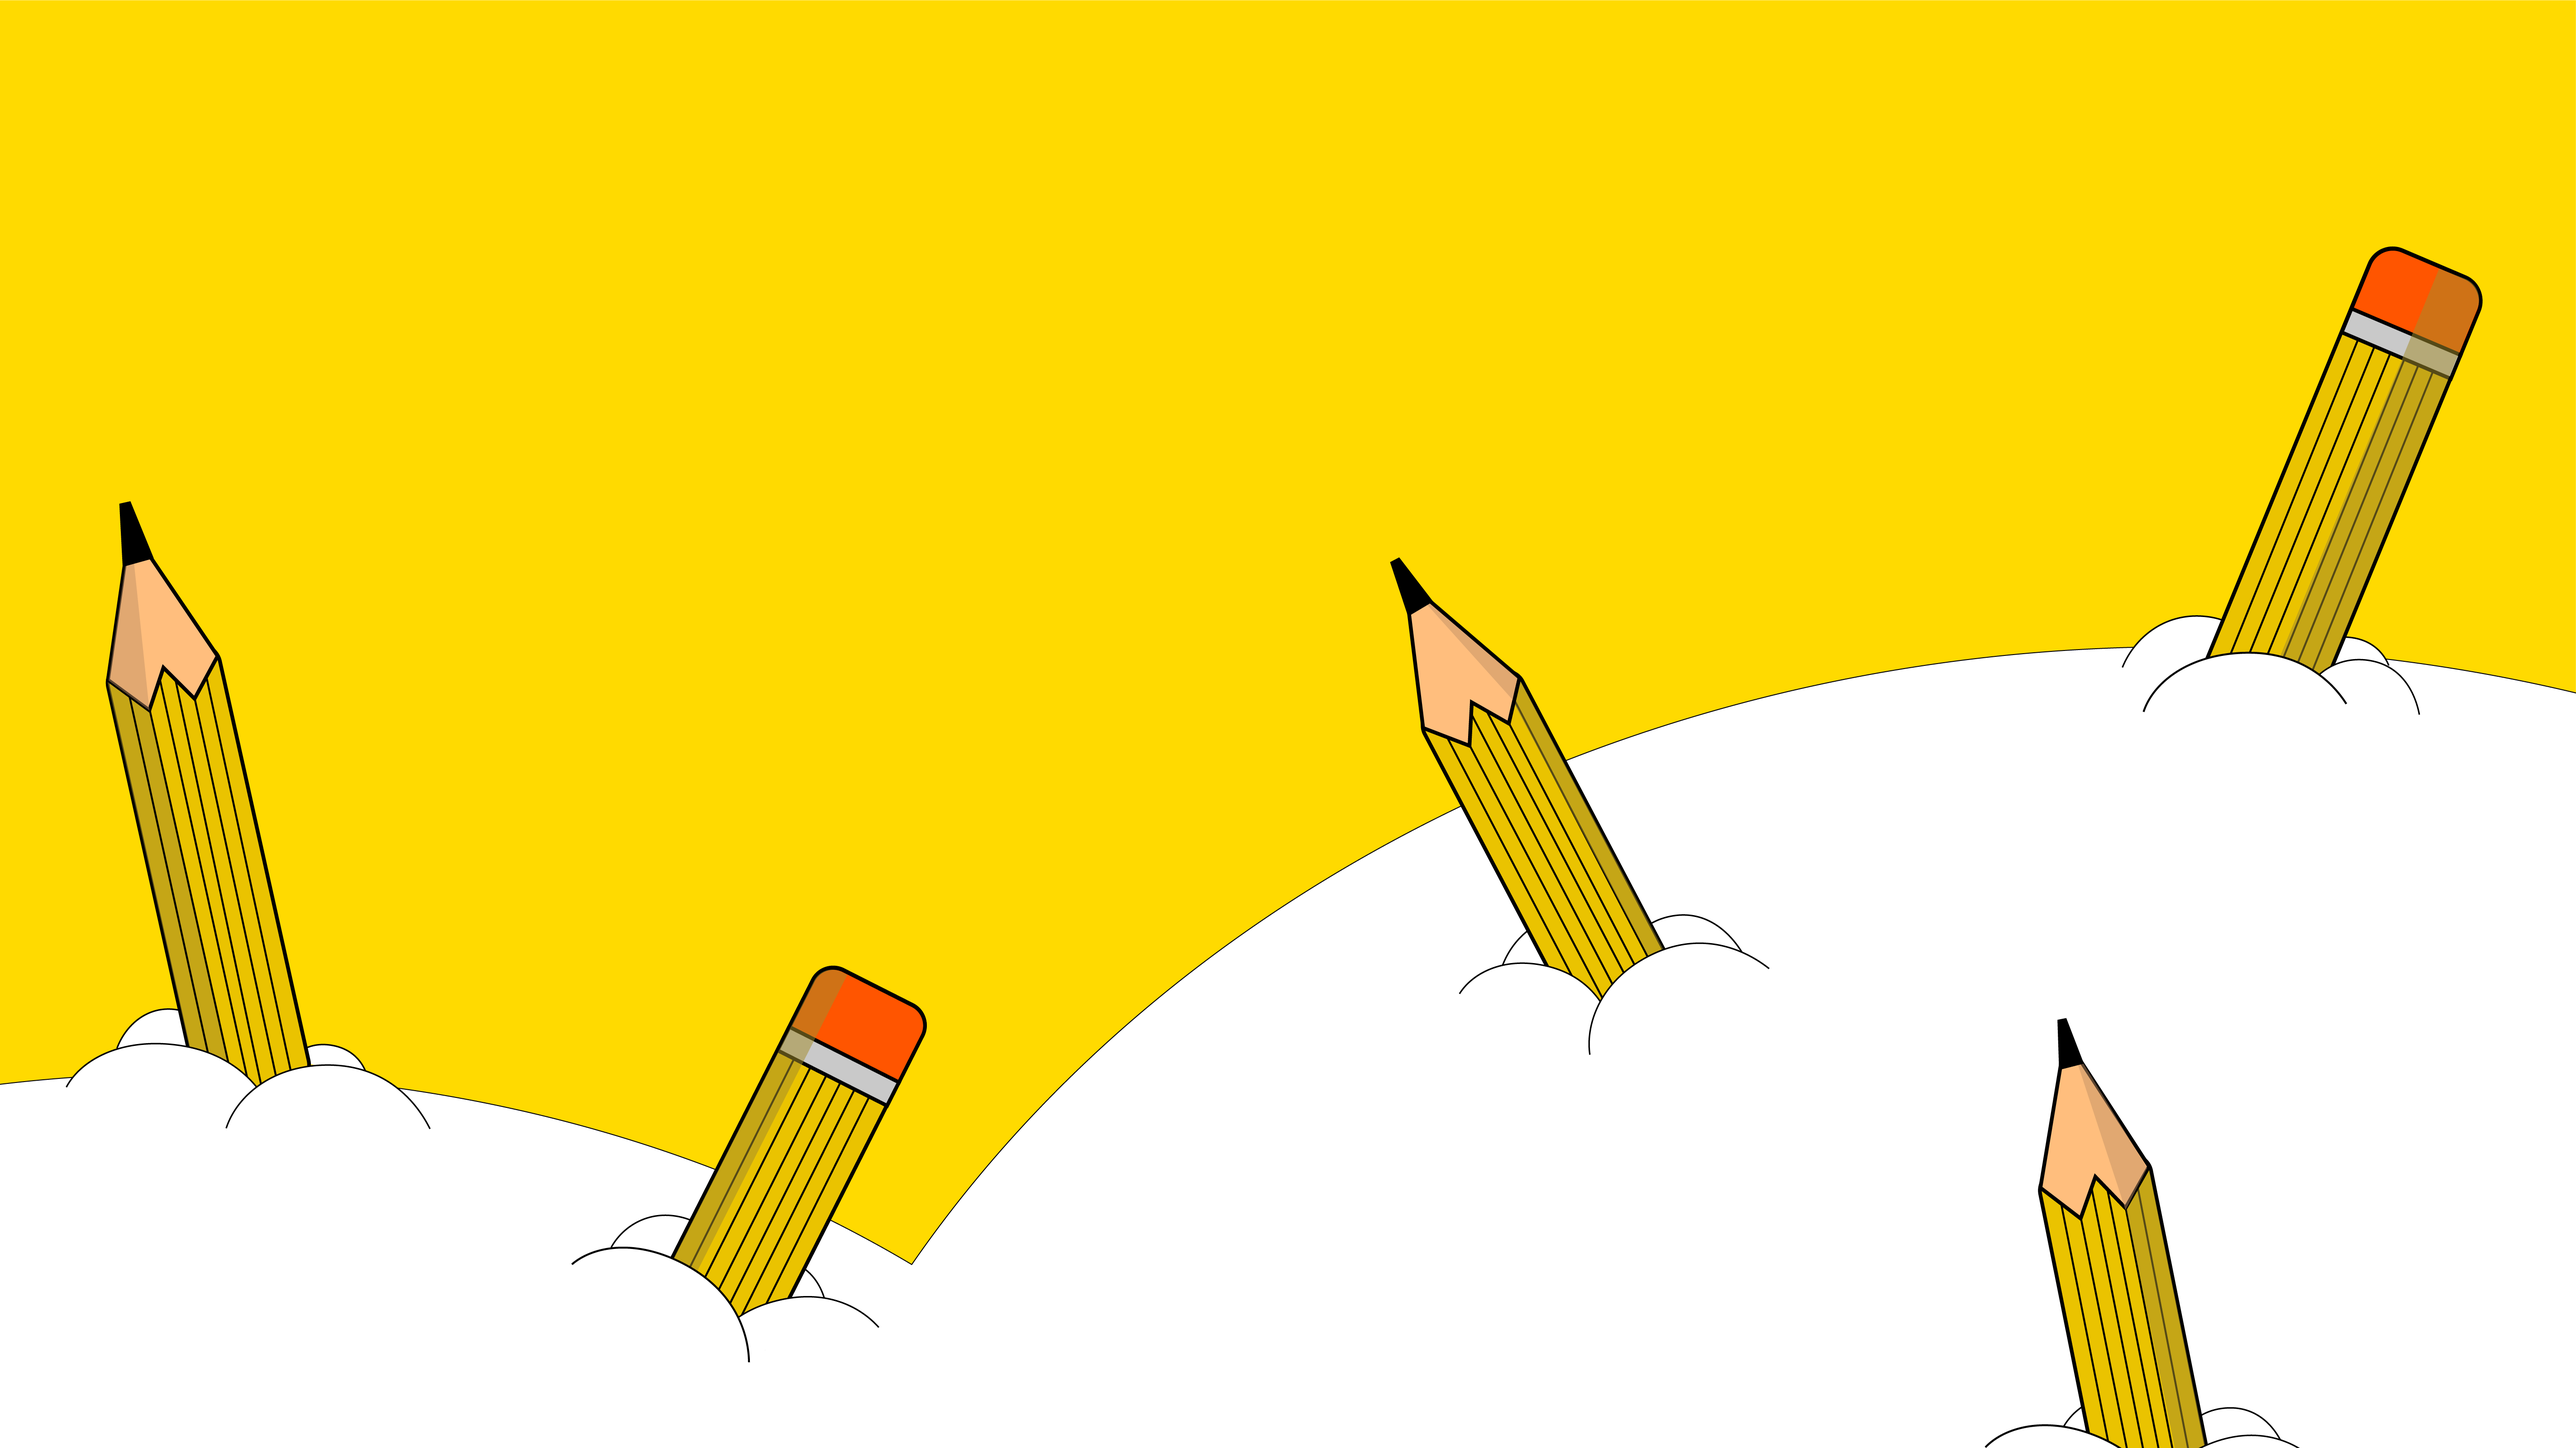
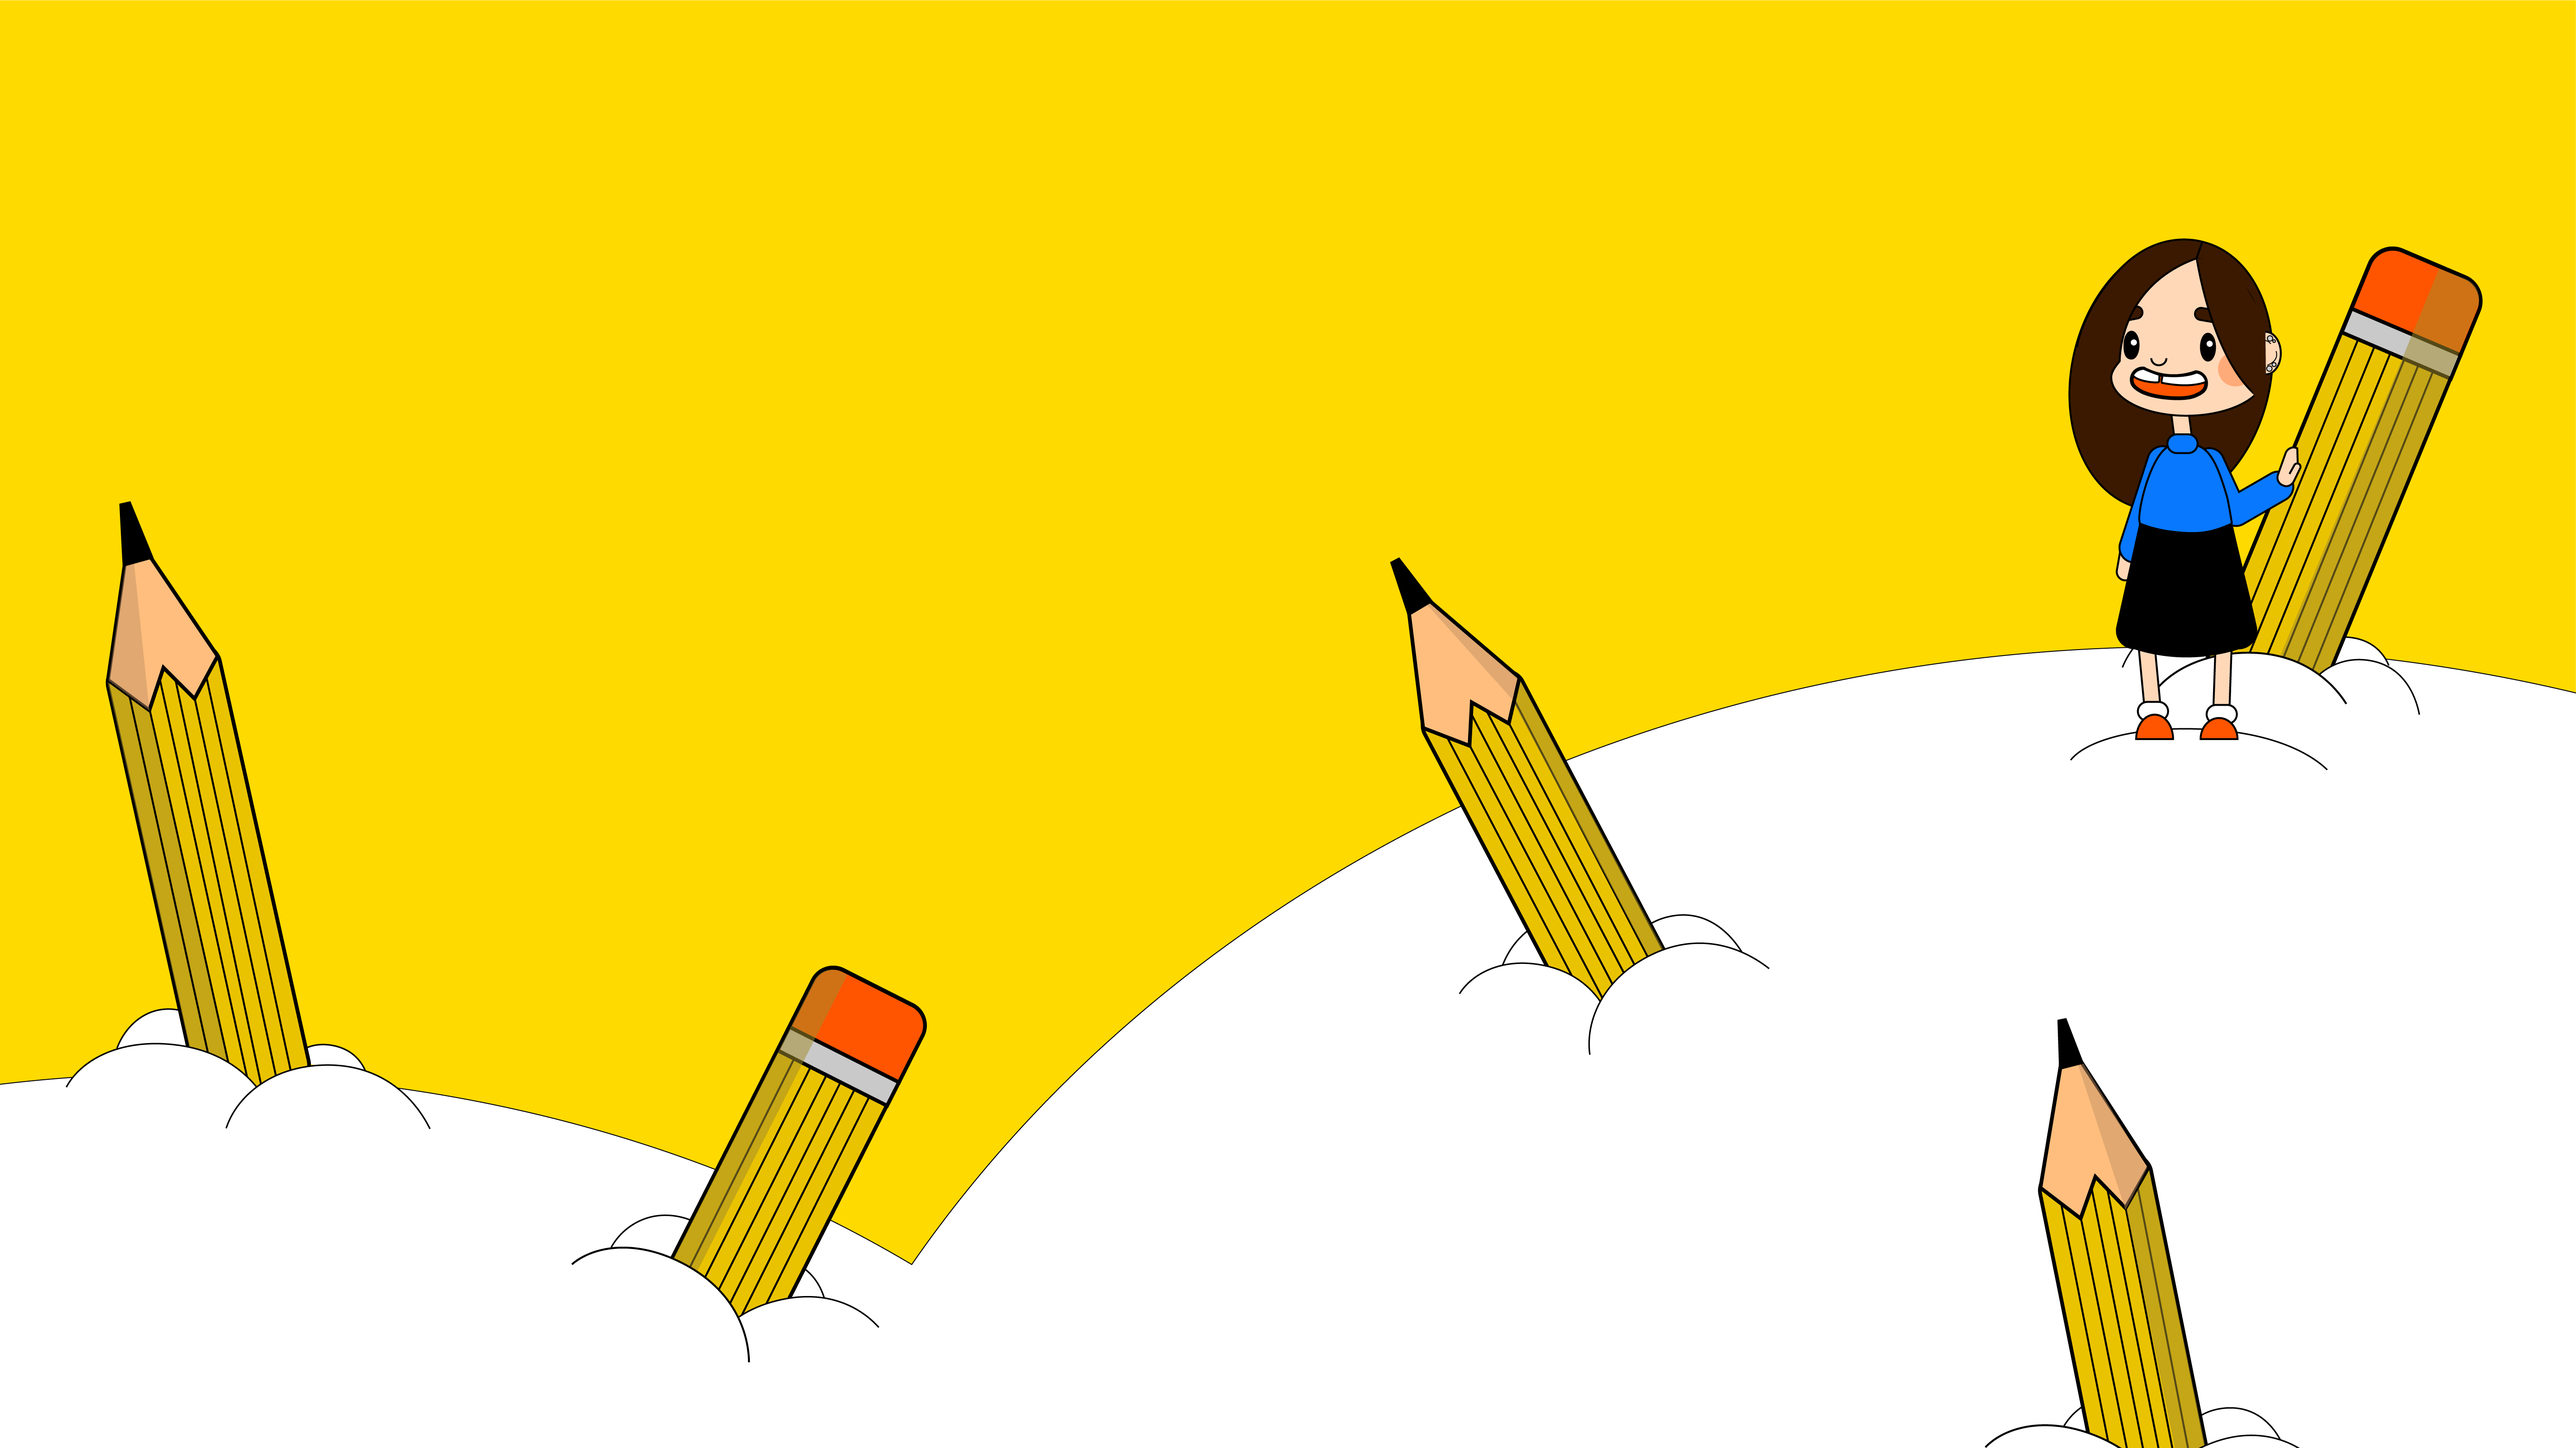
changes made to index.html

Changed region(s): [[0.7774, 0.1562, 0.9018, 0.5311]]

diff --git a/index.html b/index.html
@@ -6,123 +6,168 @@
             BoYi Wong | Home
         </title>
             <style>
+                *{
+                    box-sizing: border-box;
+                }
                 body{   
                     font-family: 'Open Sans', sans-serif;
-                    background: url("images/index-background-02.png");
+                    background: url('images/index-background-01.png');
                     background-size: cover;
-                    background-color: #FF5500;
+                    background-color: #FF2A00;
                     background-repeat: no-repeat;
                     max-width: 100%;
                     height:auto;
                 }
+                .main{
+                    width: 12.5%;
+                    float: left;
+                }
                 .logo1{
-                    margin-top: 10px;
+                    margin-top: 12px;
                     margin-left: 15px;
-                    height:125px;
-                    width: 125px;
+                    height:100px;
+                    width: 100px;
                     border: 0;
                 }
+/*
+                .links{
+                    width:87.5%;
+                    float:left;
+                }
+*/
                 .about{
                     color: white;
                     text-decoration: none;
-                    margin-top: 0px;
-                    margin-left: 585px;
+                    margin-top: 20px;
+                    margin-left: 460px;
                     margin-bottom; 0;
-                    font-size: 28px;
+                    font-size: 25px;
                     text-align: center;
                     max-width: 50%;
+                    letter-spacing: .5px;
                    }
                 .about:hover{
                     color: #FF5500;
                     border-bottom-style: solid;
-                    font-size: 30px;
+                    font-size: 26px;
                     }
                 .skills{
                     color: white;
                     text-decoration: none;
                     margin-top: 0px;
-                    margin-left: 55px;
+                    margin-left: 65px;
                     margin-bottom; 0;
-                    font-size: 28px;
+                    font-size: 25px;
                     text-align: center;
                     max-width: 50%;
+                    letter-spacing: .5px;
                    }
                 .skills:hover{
                     color: #FF5500;
                     border-bottom-style: solid;
-                    font-size: 30px;
+                    font-size: 26px;
                     }
                 .experience{
                     color: white;
                     text-decoration: none;
                     margin-top: 0px;
-                    margin-left: 55px;
+                    margin-left: 65px;
                     margin-bottom; 0;
-                    font-size: 28px;
+                    font-size: 25px;
                     text-align: center;
                     max-width: 50%;
+                    letter-spacing: .5px;
                    }
                 .experience:hover{
                     color: #FF5500;
                     border-bottom-style: solid;
-                    font-size: 30px;
+                    font-size: 26px;
+                    }
+                .portfolio{
+                    color: white;
+                    text-decoration: none;
+                    margin-top: 0px;
+                    margin-left: 65px;
+                    margin-bottom; 0;
+                    font-size: 25px;
+                    text-align: center;
+                    max-width: 50%;
+                    letter-spacing: .5px;
+                   }
+                .portfolio:hover{
+                    color: #FF5500;
+                    border-bottom-style: solid;
+                    font-size: 26px;
                     }
                 .contact{
                     color: white;
                     text-decoration: none;
                     margin-top: 0px;
-                    margin-left: 55px;
+                    margin-left: 65px;
                     margin-bottom; 0;
-                    font-size: 28px;
+                    font-size: 25px;
                     text-align: center;
                     max-width: 50%;
+                    letter-spacing: .5px;
                    }
                 .contact:hover{
                     color: #FF5500;
                     border-bottom-style: solid;
-                    font-size: 30px;
+                    font-size: 26px;
                     }
-                h1{
-                    margin-top: 130px;
-                    margin-left: 265px;
-                    font-size: 500%;
-                    color:#FF2A00;
+                .h1{
+                    width: 450px;
+                    margin-top: 200px;
+                    margin-left: 238px;
+                    font-size: 300%;
+                    color:black;
                     padding-bottom: 0px;
-                    margin-bottom: 0px;
-                    
+                    border-bottom: 10px solid black;
                 }
                 p{
                     margin-top: 30px;
-                    margin-right: 795px;
+                    margin-bottom: 0px;
+                    padding-bottom: 0px;
+                    margin-left: 0px;
+                    margin-right: 523px;
                     font-size: 115%;
                     color:black;
-                    line-height: 28px;
-                    text-align: right;
-                    
+                    line-height: 29px;
+                    text-align: center;
                 }
                 
             </style>
     </head>
     <body>
-            <a href="https://amazon.com">
-            <img class="logo1" src="images/logos%20(wong)-04.png" style="max-width:100% ; height:auto">
-            </a>
-            <a class="about" href="https://google.com">
-            <b>ABOUT</b>
-            </a>
-            <a class="skills" href="https://tumblr.com">
-            <b>SKILLS</b>
-            </a><a class="experience" href="https://tumblr.com">
-            <b>EXPERIENCE</b>
-            </a>
-            <a class="contact" href="https://tumblr.com">
-            <b>CONTACT</b>
-            </a>
-            <h1>
-                <b>Welcome!</b> 
-            </h1>
-            <p>
-                <b>My resume website thingy!!!(:osd</b> <br>asdiuagsduhakuhoishdoiahasdjkbasbidhihi
-            </p>
+            <div class="main">
+                <a href="https://amazon.com">
+                <img class="logo1" src="images/logos%20(wong)-04.png" style="max-width:100% ; height:auto">
+                </a>
+            </div>
+            <div class="links">
+                <a class="about" href="https://google.com">
+                <b>About</b>
+                </a>
+                <a class="skills" href="https://tumblr.com">
+                <b>Skills</b>
+                </a><a class="experience" href="https://tumblr.com">
+                <b>Experience</b>
+                </a>
+                <a class="portfolio" href="https://www.behance.net/bwong1997">
+                <b>Portfolio</b>
+                </a>
+                <a class="contact" href="https://tumblr.com">
+                <b>Contact</b>
+                </a>
+            </div>
+            <div class="h1">
+                <h1>
+                    <b>Welcome!</b> 
+                </h1>
+                </div>
+                <p>
+                <b>My resume website thingy!!!(:osd</b>
+                <br>asdiuagsduhakuhoishdoiahasdjkbasbidhihi
+                </p>
     </body>        
 </html>
